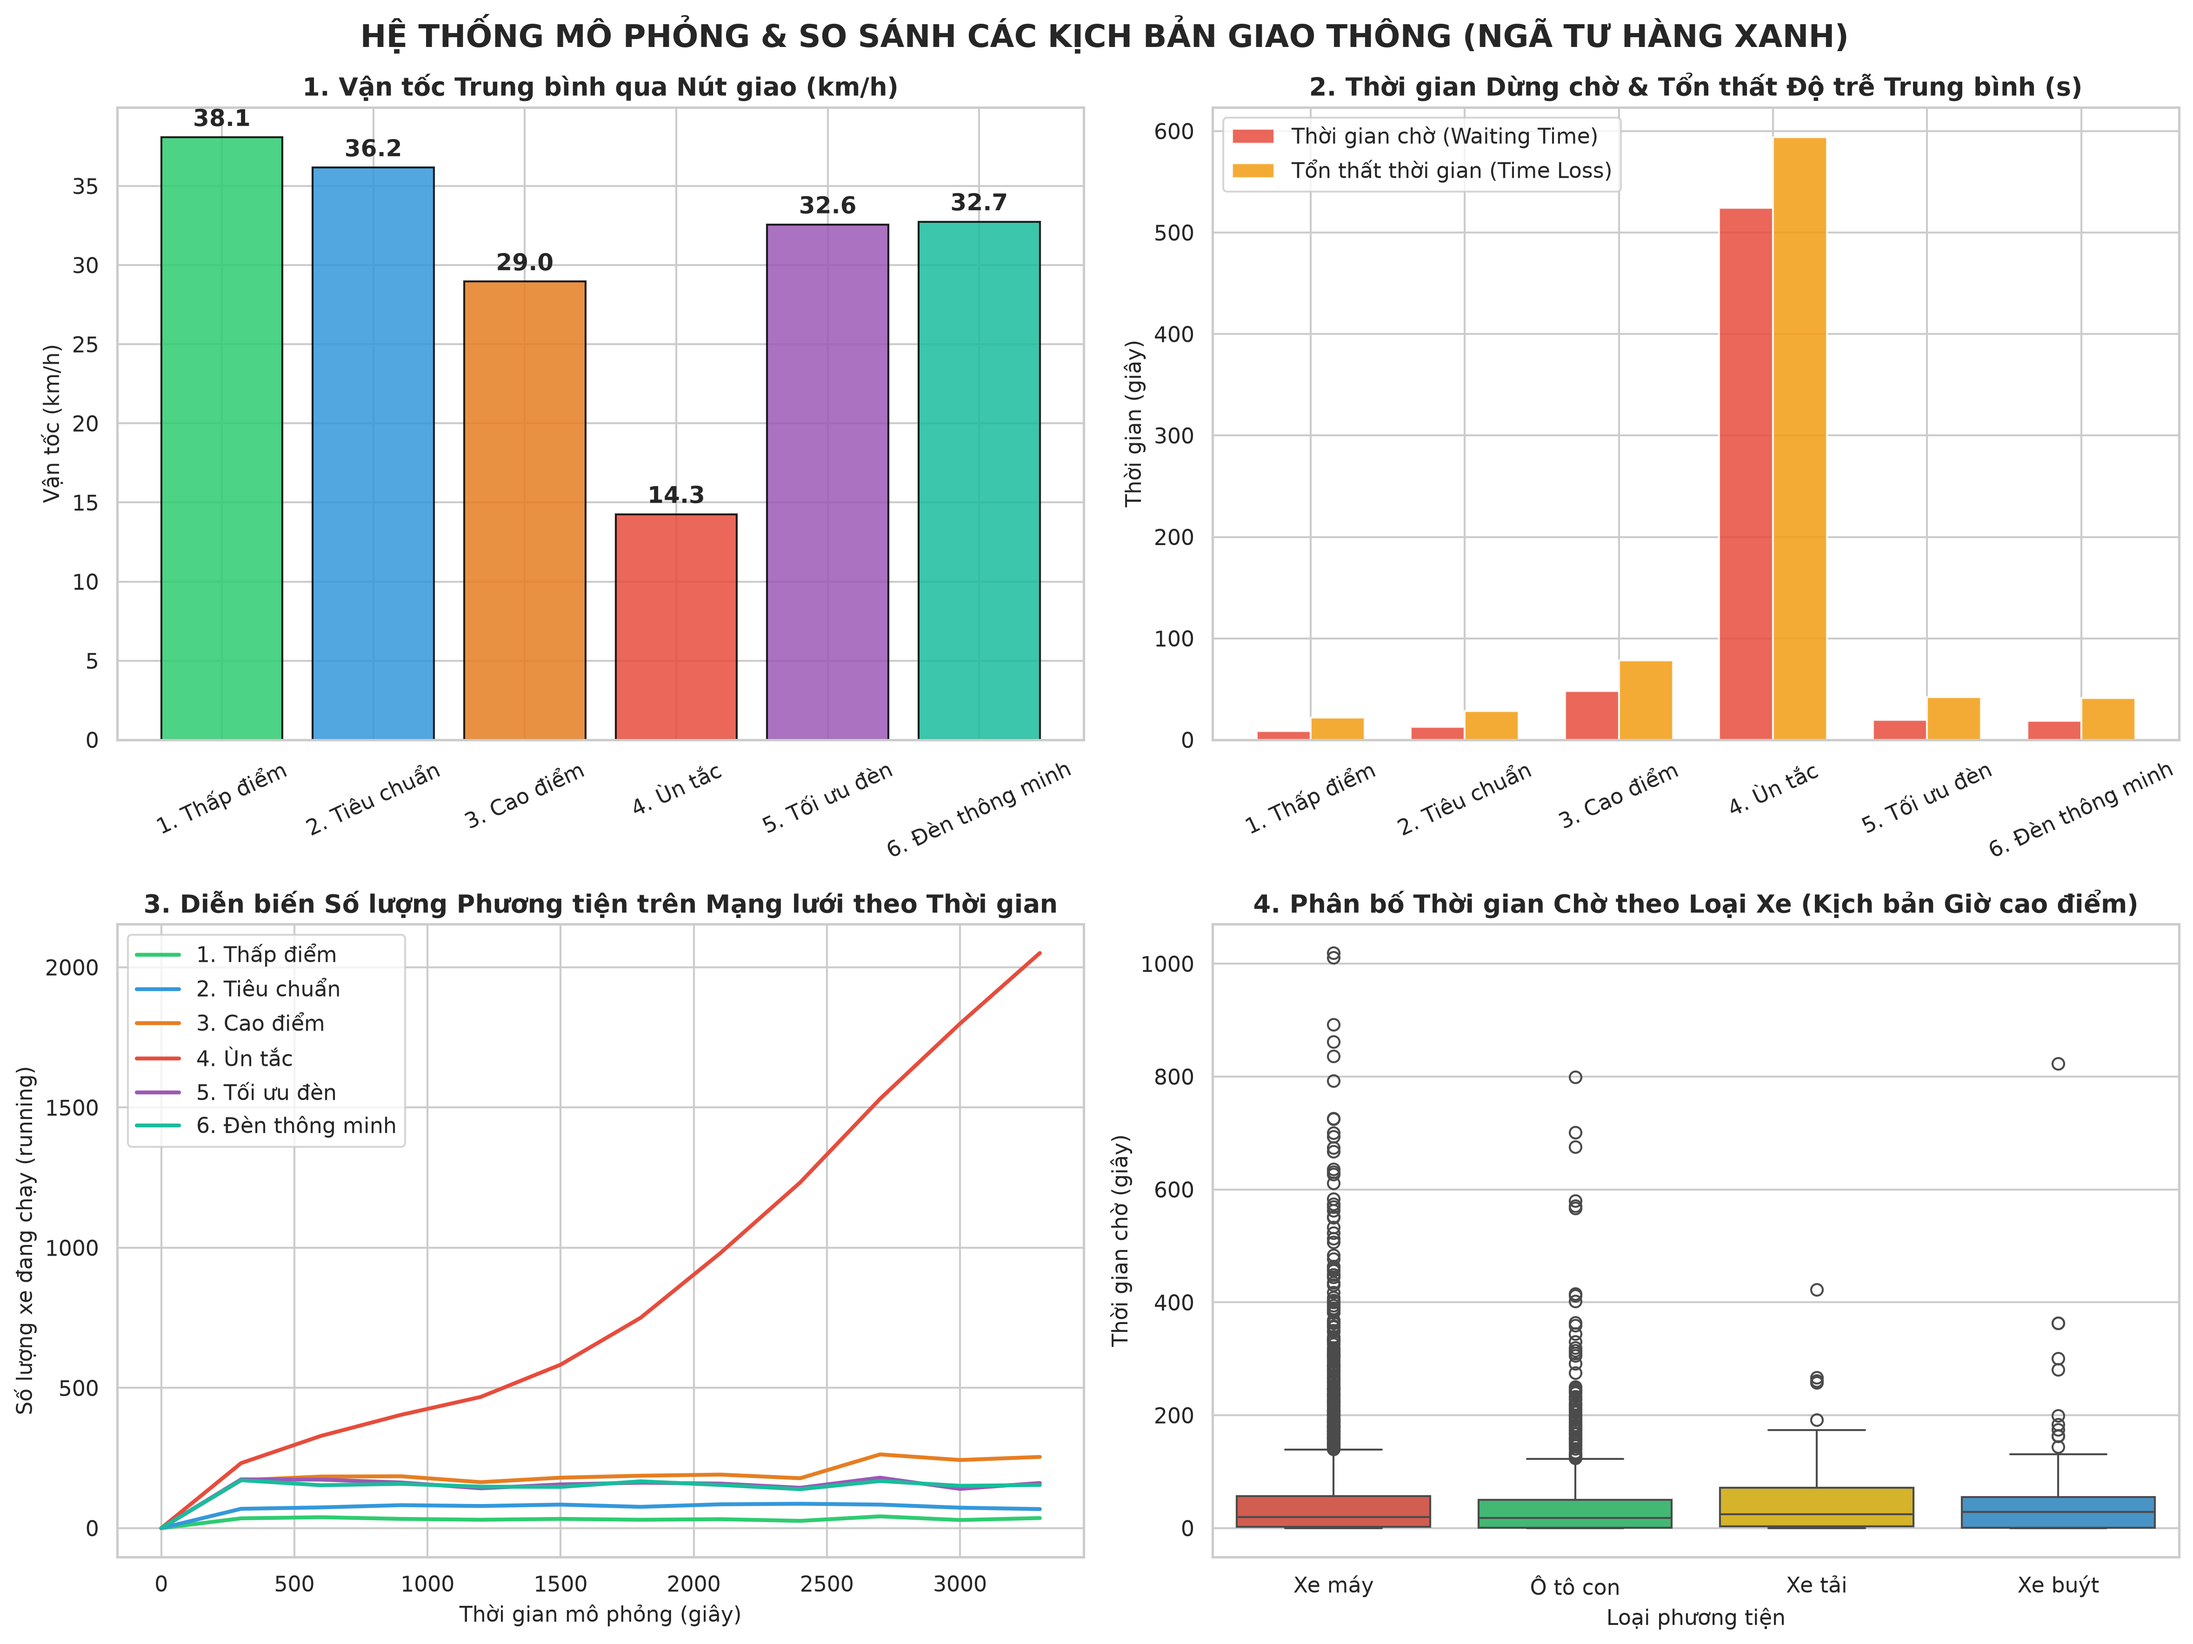
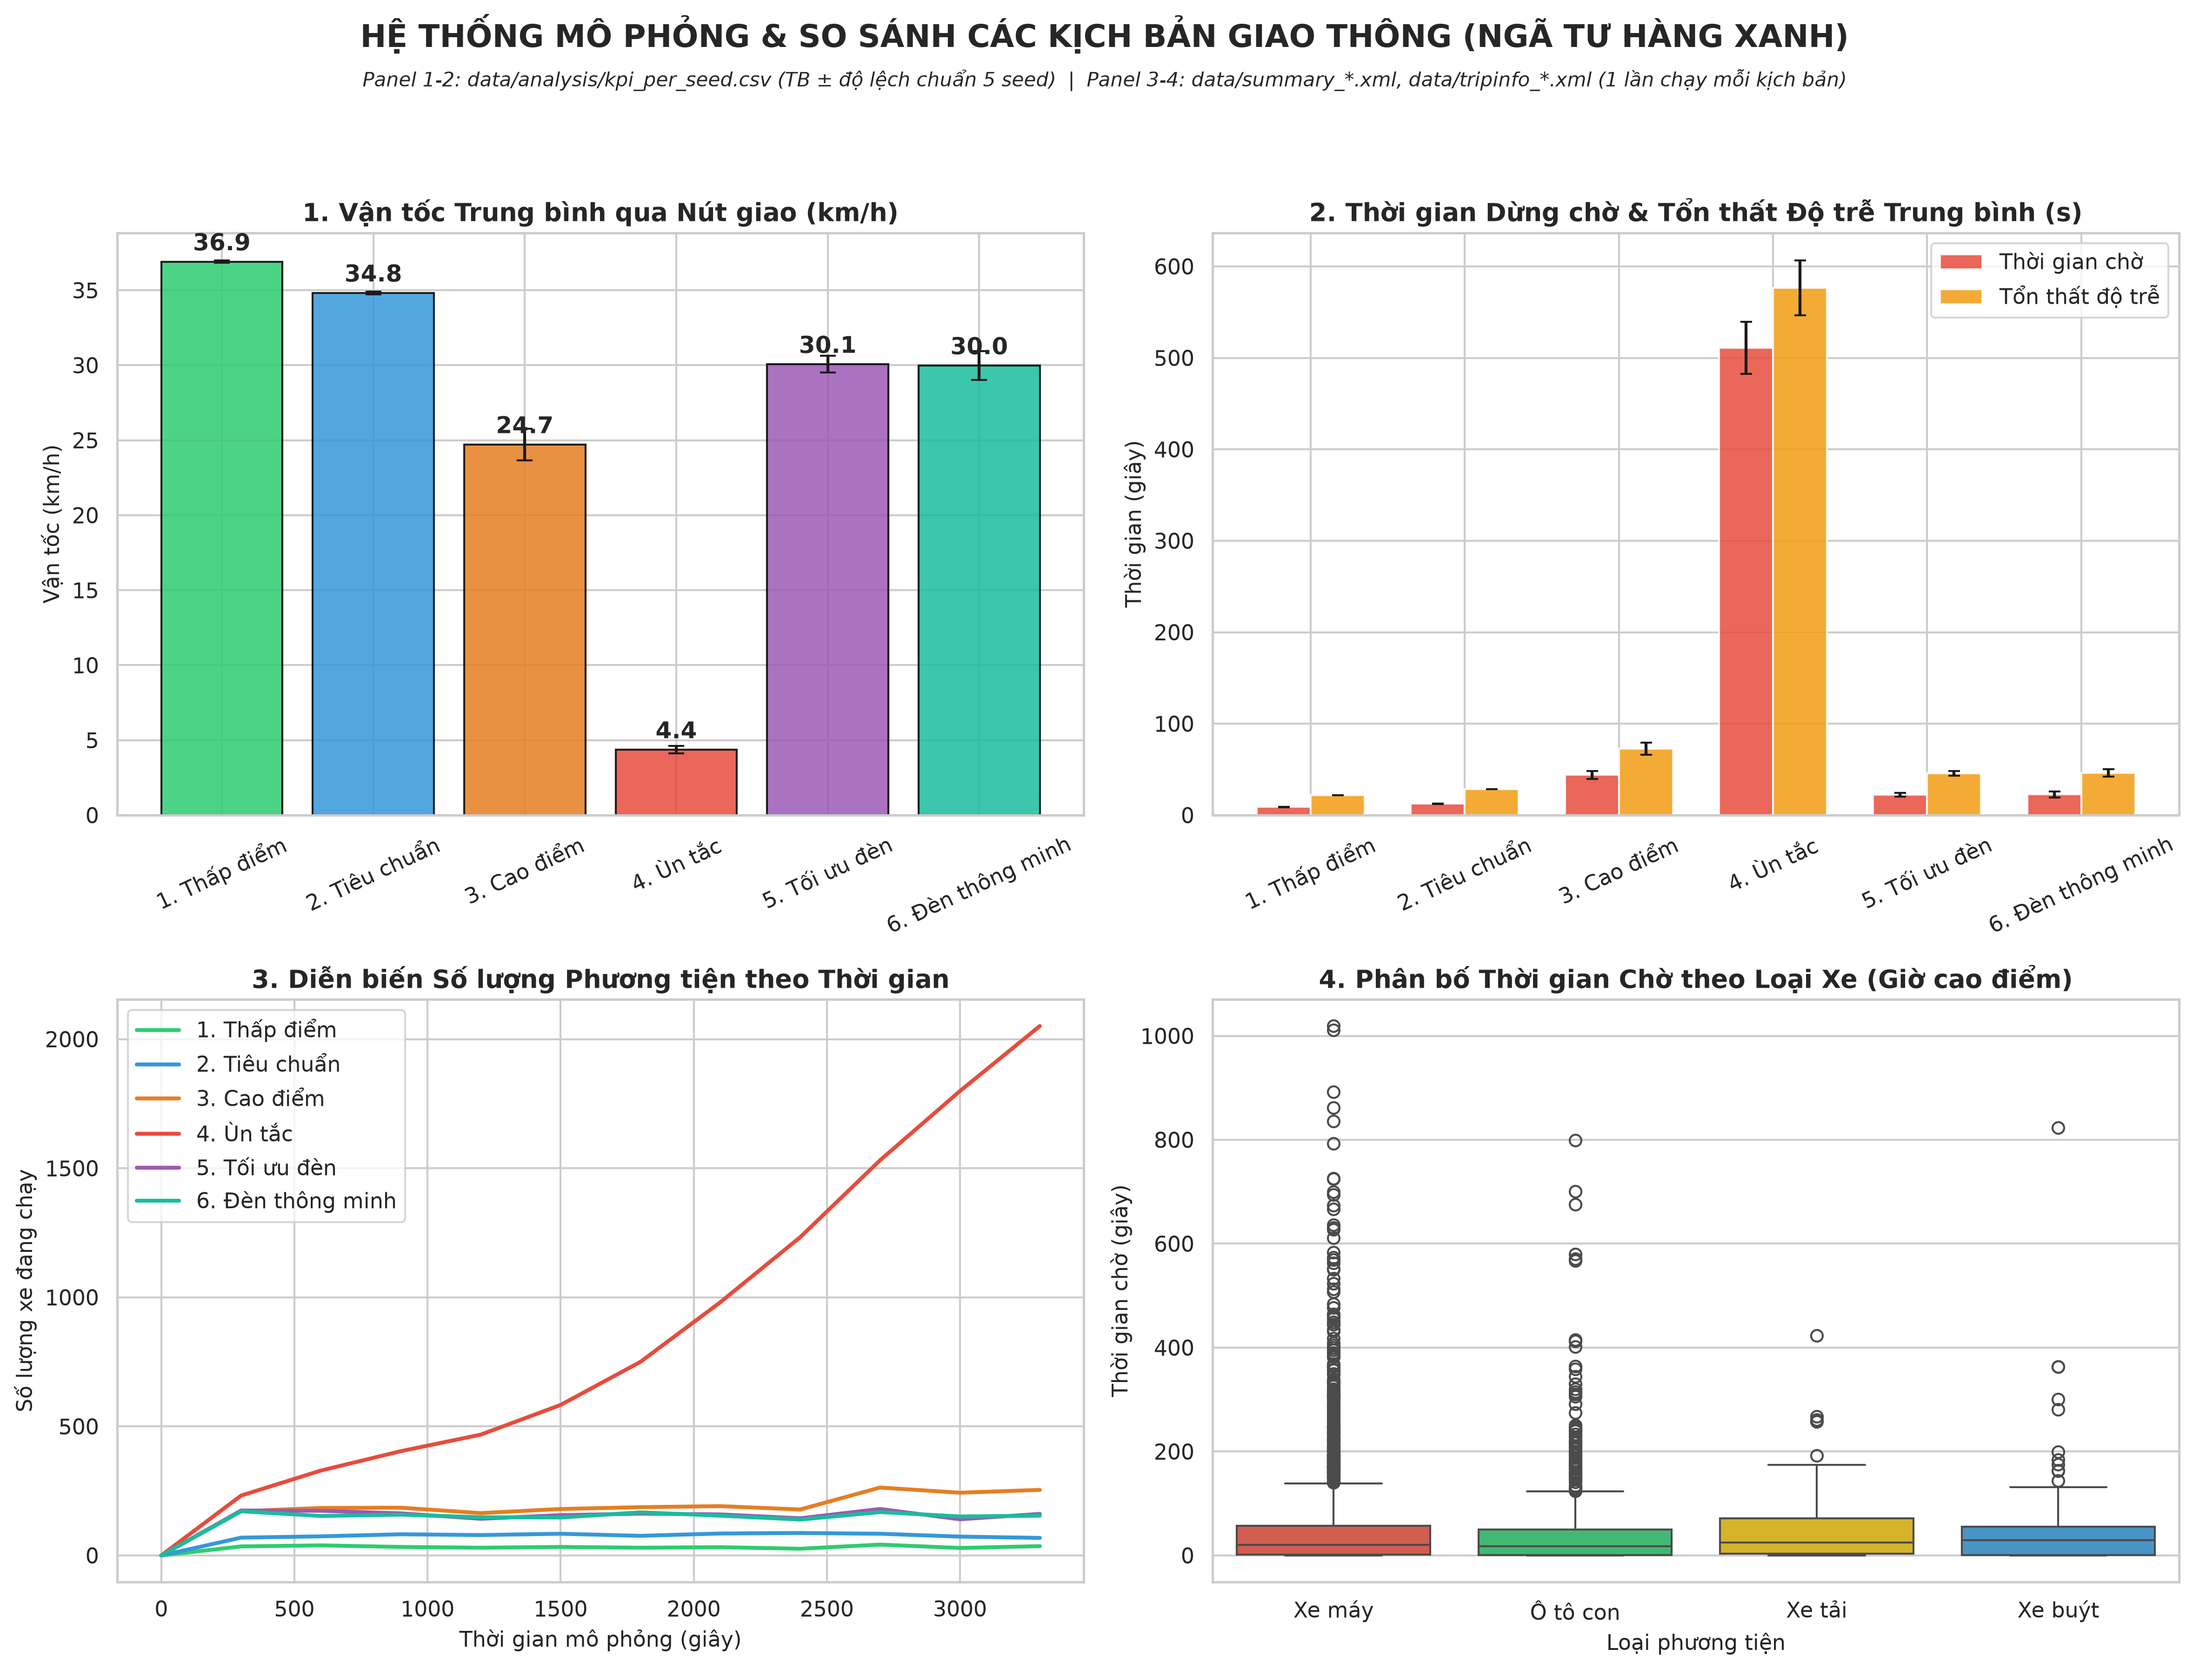
fix(plot): FD dùng q = nVehContrib x 4 trên 30 lần chạy, dashboard TB 5 seed

diff --git a/scripts/plot_results.py b/scripts/plot_results.py
@@ -98,54 +98,106 @@ def load_data(data_dir):
                 
     return summary_dfs, tripinfo_dfs, pd.DataFrame(kpi_records)
 
-def plot_fundamental_diagram(data_dir):
-    """Vẽ biểu đồ Fundamental Diagram (Task 8.1) từ dữ liệu detector đã làm sạch (Task 7.2)"""
+DETECTOR_PERIOD_S = 900  # freq="900.0" trong routes/detectors.add.xml
+
+
+def load_detector_points(data_dir):
+    """Đọc detector E1 của mọi (kịch bản, seed) trong data/raw/<kịch_bản>/seed_<n>/detector.xml.
+    Nếu chưa có data/raw thì dùng data/detector_output_cleaned.csv (1 lần chạy, 1 kịch bản)."""
+    raw = os.path.join(data_dir, 'raw')
+    rows = []
+    for key, _, _ in SCENARIOS:
+        sc_dir = os.path.join(raw, key)
+        if not os.path.isdir(sc_dir):
+            continue
+        for sd in sorted(os.listdir(sc_dir)):
+            p = os.path.join(sc_dir, sd, 'detector.xml')
+            if sd.startswith('seed_') and os.path.exists(p):
+                for _, el in ET.iterparse(p):
+                    if el.tag == 'interval':
+                        rows.append({'scenario': key, 'seed': int(sd[5:]), 'id': el.get('id'),
+                                     'begin': float(el.get('begin')), 'end': float(el.get('end')),
+                                     'nVehContrib': int(el.get('nVehContrib')), 'speed': float(el.get('speed'))})
+                        el.clear()
+    if rows:
+        df = pd.DataFrame(rows)
+        n_runs = df[['scenario', 'seed']].drop_duplicates().shape[0]
+        return df, f'Nguồn: data/raw/*/seed_*/detector.xml — {df["scenario"].nunique()} kịch bản, {n_runs} lần chạy, 12 detector E1, chu kỳ 900 s'
     csv_path = os.path.join(data_dir, 'detector_output_cleaned.csv')
     if not os.path.exists(csv_path):
-        print("Chưa tìm thấy file detector_output_cleaned.csv từ Task 7.2. Bỏ qua vẽ Fundamental Diagram.")
-        return
-
+        return pd.DataFrame(), ''
     df = pd.read_csv(csv_path)
+    df['scenario'] = 'tls_actuated'  # detector_output.xml bị ghi đè mỗi lần chạy; bản hiện có là tls_actuated
+    return df, 'Nguồn: data/detector_output_cleaned.csv — CHỈ 1 lần chạy (tls_actuated), 12 detector E1, chu kỳ 900 s'
+
+
+def plot_fundamental_diagram(data_dir):
+    """Vẽ biểu đồ Fundamental Diagram (Task 8.1) từ detector E1 (chu kỳ 900 s)."""
+    df, source = load_detector_points(data_dir)
     if df.empty:
+        print("Chưa có dữ liệu detector (data/raw/ hoặc detector_output_cleaned.csv). Bỏ qua Fundamental Diagram.")
         return
 
-    # Tính toán lưu lượng (flow - xe/h) và mật độ (density - xe/km)
-    if 'nVehContrib' in df.columns and 'speed' in df.columns:
-        df['flow'] = df['nVehContrib'] * 60  # Quy đổi sang xe/h
-        df['density'] = df['flow'] / (df['speed'] * 3.6 + 1e-5)  # Tránh chia cho 0
+    # q (xe/h) = N × 3600 / Δt, Δt = 900 s  ->  q = nVehContrib × 4
+    df['flow'] = df['nVehContrib'] * 3600 / DETECTOR_PERIOD_S
+    assert (df['flow'] == df['nVehContrib'] * 4).all(), 'flow phải bằng nVehContrib × 4'
+    # Bỏ khung không có xe (speed = -1 hoặc 0) vì không xác định được mật độ k = q / v
+    df = df[(df['speed'] > 0) & (df['nVehContrib'] > 0)].copy()
+    df['speed_kmh'] = df['speed'] * 3.6
+    df['density'] = df['flow'] / df['speed_kmh']
 
-    fig, axes = plt.subplots(1, 2, figsize=(14, 6))
-    fig.suptitle('PHÂN TÍCH QUAN HỆ LƯU LƯỢNG - MẬT ĐỘ - VẬN TỐC (TASK 8.1)', fontsize=15, fontweight='bold', y=0.98)
+    fig, axes = plt.subplots(1, 2, figsize=(14, 6.4))
+    fig.suptitle('PHÂN TÍCH QUAN HỆ LƯU LƯỢNG - MẬT ĐỘ - VẬN TỐC (TASK 8.1)', fontsize=15, fontweight='bold', y=0.99)
+    fig.text(0.5, 0.925, f'{source}. q = nVehContrib × 4 (xe/h), k = q / v', ha='center', fontsize=10, style='italic')
 
-    # 1. Lưu lượng - Mật độ (Q - K)
-    if 'density' in df.columns and 'flow' in df.columns:
-        axes[0].scatter(df['density'], df['flow'], color='#3498db', alpha=0.6, edgecolors='k')
-        axes[0].set_title('Quan hệ Lưu lượng - Mật độ (Flow vs Density)', fontsize=13, fontweight='bold')
-        axes[0].set_xlabel('Mật độ (xe/km)', fontsize=11)
-        axes[0].set_ylabel('Lưu lượng (xe/h)', fontsize=11)
-        axes[0].grid(True, linestyle='--', alpha=0.7)
+    for key, label, color in SCENARIOS:
+        d = df[df['scenario'] == key]
+        if d.empty:
+            continue
+        axes[0].scatter(d['density'], d['flow'], color=color, alpha=0.6, edgecolors='k', linewidths=0.4, label=label)
+        axes[1].scatter(d['density'], d['speed_kmh'], color=color, alpha=0.6, edgecolors='k', linewidths=0.4, label=label)
 
-    # 2. Vận tốc - Mật độ (V - K)
-    if 'density' in df.columns and 'speed' in df.columns:
-        axes[1].scatter(df['density'], df['speed'] * 3.6, color='#e74c3c', alpha=0.6, edgecolors='k')
-        axes[1].set_title('Quan hệ Vận tốc - Mật độ (Speed vs Density)', fontsize=13, fontweight='bold')
-        axes[1].set_xlabel('Mật độ (xe/km)', fontsize=11)
-        axes[1].set_ylabel('Vận tốc trung bình (km/h)', fontsize=11)
-        axes[1].grid(True, linestyle='--', alpha=0.7)
+    axes[0].set_title('Quan hệ Lưu lượng - Mật độ (Flow vs Density)', fontsize=13, fontweight='bold')
+    axes[0].set_ylabel('Lưu lượng (xe/h)', fontsize=11)
+    axes[1].set_title('Quan hệ Vận tốc - Mật độ (Speed vs Density)', fontsize=13, fontweight='bold')
+    axes[1].set_ylabel('Vận tốc trung bình thời gian (km/h)', fontsize=11)
+    for ax in axes:
+        ax.set_xlabel('Mật độ (xe/km)', fontsize=11)
+        ax.grid(True, linestyle='--', alpha=0.7)
+        ax.legend(fontsize=9)
+    fig.tight_layout(rect=(0, 0, 1, 0.91))
 
-    plt.tight_layout()
     output_path = os.path.join(data_dir, 'traffic_fundamental_diagram.png')
     plt.savefig(output_path, dpi=300, bbox_inches='tight')
     print(f"-> Đã lưu biểu đồ Fundamental Diagram (Task 8.1) tại: {output_path}")
 
-def plot_dashboard(summary_dfs, tripinfo_dfs, df_kpi, output_dir):
+def apply_multi_seed_kpi(data_dir, df_kpi):
+    """Panel 1-2: thay KPI 1 lần chạy bằng trung bình ± độ lệch chuẩn các seed trong
+    data/analysis/kpi_per_seed.csv (cùng công thức với reliability.csv). Thiếu file thì giữ nguyên."""
+    p = os.path.join(data_dir, 'analysis', 'kpi_per_seed.csv')
+    if df_kpi.empty or not os.path.exists(p):
+        return df_kpi, 'data/tripinfo_*.xml (1 lần chạy, seed mặc định)'
+    cols = {'avg_speed': 'van_toc_tb_kmh', 'avg_wait': 'tg_cho_tb_s', 'avg_timeloss': 'tg_mat_mat_tb_s'}
+    g = pd.read_csv(p, encoding='utf-8-sig').groupby('scenario')[list(cols.values())]
+    mean, std = g.mean(), g.std()
+    df_kpi = df_kpi[df_kpi['key'].isin(mean.index)].copy()
+    for new, old in cols.items():
+        df_kpi[new] = df_kpi['key'].map(mean[old])
+        df_kpi[new + '_std'] = df_kpi['key'].map(std[old])
+    return df_kpi, f'data/analysis/kpi_per_seed.csv (TB ± độ lệch chuẩn {g.size().min()} seed)'
+
+
+def plot_dashboard(summary_dfs, tripinfo_dfs, df_kpi, output_dir, kpi_src=''):
     fig, axes = plt.subplots(2, 2, figsize=(16, 12))
-    fig.suptitle('HỆ THỐNG MÔ PHỎNG & SO SÁNH CÁC KỊCH BẢN GIAO THÔNG (NGÃ TƯ HÀNG XANH)', fontsize=16, fontweight='bold', y=0.98)
-    
+    fig.suptitle('HỆ THỐNG MÔ PHỎNG & SO SÁNH CÁC KỊCH BẢN GIAO THÔNG (NGÃ TƯ HÀNG XANH)', fontsize=16, fontweight='bold', y=0.995)
+    fig.text(0.5, 0.962, va='top', s=f'Panel 1-2: {kpi_src}  |  Panel 3-4: data/summary_*.xml, data/tripinfo_*.xml (1 lần chạy mỗi kịch bản)',
+             ha='center', fontsize=10, style='italic')
+
     # 1. Biểu đồ Vận tốc trung bình
     ax1 = axes[0, 0]
     if not df_kpi.empty:
-        bars = ax1.bar(df_kpi['scenario'], df_kpi['avg_speed'], color=df_kpi['color'], edgecolor='black', alpha=0.85)
+        bars = ax1.bar(df_kpi['scenario'], df_kpi['avg_speed'], yerr=df_kpi.get('avg_speed_std'), capsize=4,
+                       color=df_kpi['color'], edgecolor='black', alpha=0.85)
         ax1.set_title('1. Vận tốc Trung bình qua Nút giao (km/h)', fontsize=13, fontweight='bold')
         ax1.set_ylabel('Vận tốc (km/h)', fontsize=11)
         ax1.tick_params(axis='x', rotation=25)
@@ -161,8 +213,10 @@ def plot_dashboard(summary_dfs, tripinfo_dfs, df_kpi, output_dir):
     if not df_kpi.empty:
         x = range(len(df_kpi))
         width = 0.35
-        ax2.bar([i - width/2 for i in x], df_kpi['avg_wait'], width=width, label='Thời gian chờ', color='#e74c3c', alpha=0.85)
-        ax2.bar([i + width/2 for i in x], df_kpi['avg_timeloss'], width=width, label='Tổn thất độ trễ', color='#f39c12', alpha=0.85)
+        ax2.bar([i - width/2 for i in x], df_kpi['avg_wait'], width=width, yerr=df_kpi.get('avg_wait_std'), capsize=3,
+                label='Thời gian chờ', color='#e74c3c', alpha=0.85)
+        ax2.bar([i + width/2 for i in x], df_kpi['avg_timeloss'], width=width, yerr=df_kpi.get('avg_timeloss_std'), capsize=3,
+                label='Tổn thất độ trễ', color='#f39c12', alpha=0.85)
         ax2.set_title('2. Thời gian Dừng chờ & Tổn thất Độ trễ Trung bình (s)', fontsize=13, fontweight='bold')
         ax2.set_ylabel('Thời gian (giây)', fontsize=11)
         ax2.set_xticks(list(x))
@@ -189,14 +243,14 @@ def plot_dashboard(summary_dfs, tripinfo_dfs, df_kpi, output_dir):
         peak_df = peak_df.copy()
         peak_df['vtype_vn'] = peak_df['vType'].map(vtype_names).fillna(peak_df['vType'])
         palette = {'Xe máy': '#e74c3c', 'Ô tô con': '#2ecc71', 'Xe buýt': '#3498db', 'Xe tải': '#f1c40f'}
-        sns.boxplot(data=peak_df, x='vtype_vn', y='waitingTime', palette=palette, ax=ax4)
+        sns.boxplot(data=peak_df, x='vtype_vn', y='waitingTime', hue='vtype_vn', palette=palette, legend=False, ax=ax4)
         ax4.set_title('4. Phân bố Thời gian Chờ theo Loại Xe (Giờ cao điểm)', fontsize=13, fontweight='bold')
         ax4.set_xlabel('Loại phương tiện', fontsize=11)
         ax4.set_ylabel('Thời gian chờ (giây)', fontsize=11)
     else:
         ax4.text(0.5, 0.5, 'Chưa có đủ dữ liệu tripinfo', ha='center', va='center')
         
-    plt.tight_layout()
+    fig.tight_layout(rect=(0, 0, 1, 0.94))
     output_path = os.path.join(output_dir, 'traffic_comparison_dashboard.png')
     plt.savefig(output_path, dpi=300, bbox_inches='tight')
     print(f"-> Đã lưu biểu đồ tổng hợp chất lượng cao tại: {output_path}")
@@ -213,7 +267,8 @@ def main():
     # Chạy vẽ Dashboard so sánh các kịch bản
     summary_dfs, tripinfo_dfs, df_kpi = load_data(data_dir)
     if not df_kpi.empty:
-        plot_dashboard(summary_dfs, tripinfo_dfs, df_kpi, data_dir)
+        df_kpi, kpi_src = apply_multi_seed_kpi(data_dir, df_kpi)
+        plot_dashboard(summary_dfs, tripinfo_dfs, df_kpi, data_dir, kpi_src)
     else:
         print("Cảnh báo: Chưa tìm thấy dữ liệu kịch bản trong data/ cho dashboard tổng hợp.")
 
